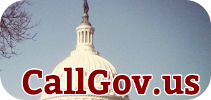
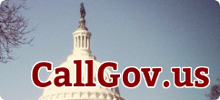
visual

diff --git a/app/assets/stylesheets/application.scss b/app/assets/stylesheets/application.scss
@@ -53,7 +53,7 @@ a:link, a:hover, a:visited { font-weight: bold; }
 body { font-family: 'Open Sans', sans-serif; }
 .navbar-brand, h1, h2, h3, h4, h5, .display-name { font-family: Bitter, serif; }
 
-h1.title { font-size: 2em; color: #fff; float: right; padding: 0; margin: 0; }
+h1.title { font-size: 2em; color: #fff; float: right; padding: 0; margin-top: .1em; }
 
 .row h3 { margin-top: 0; }
 
